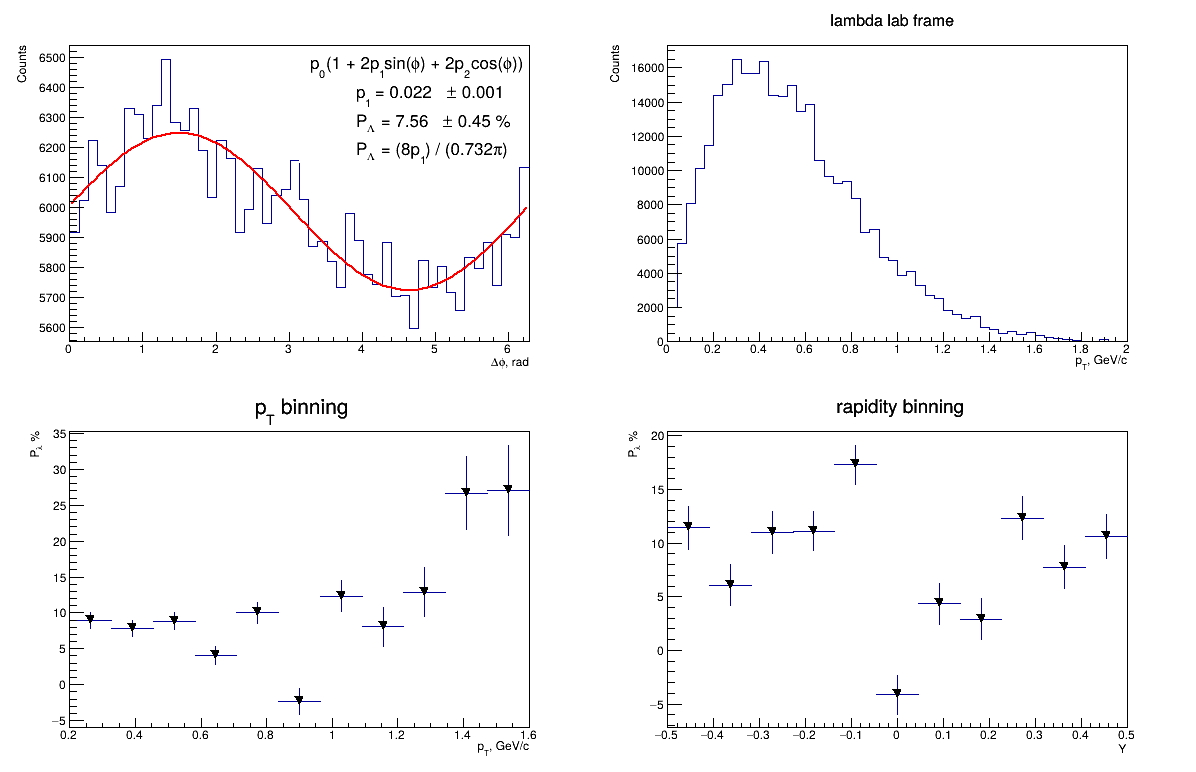
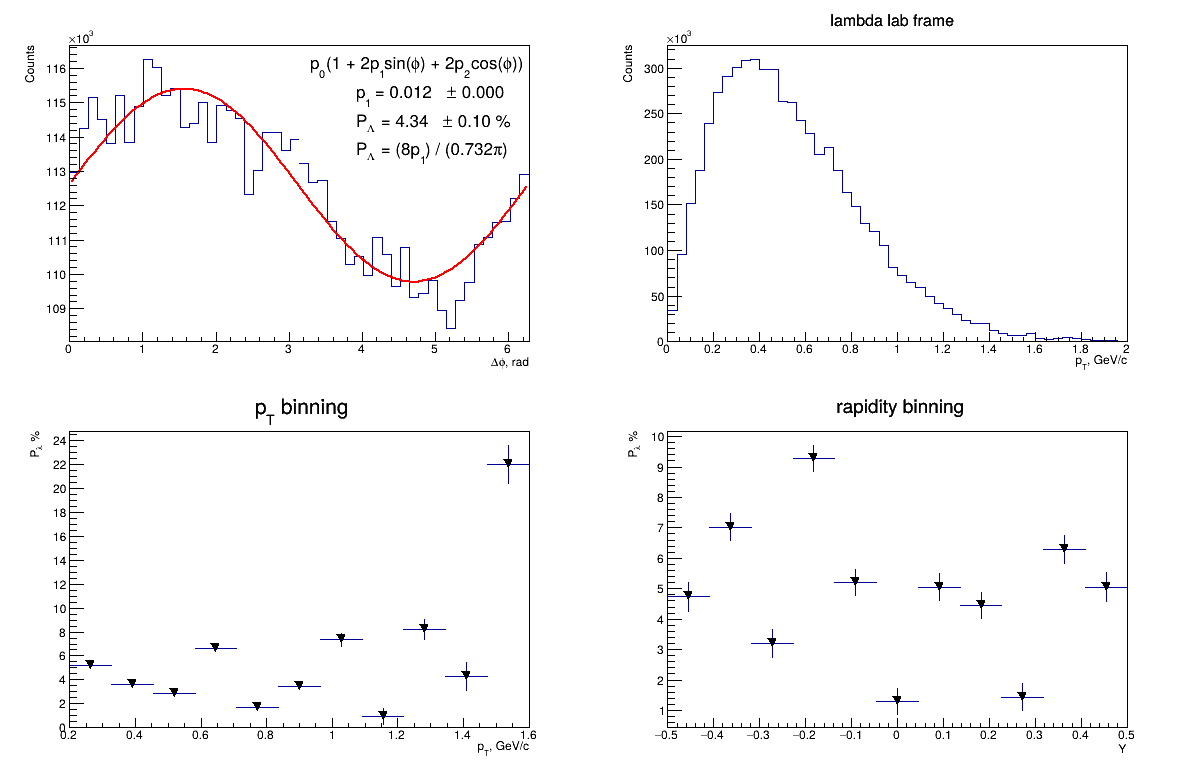
bug with  vector clearing has been fixed

diff --git a/read_unigen_root_fix.cpp b/read_unigen_root_fix.cpp
@@ -48,8 +48,6 @@ class TString;
 class TClonesArray;
 class UParticle;
 
-void calc_pol_vs_Nenh(TString InFileName, TString OutFileName, std::vector<Int_t> &enhancedFlag);
-
 
 void simulate_lambda_decays(TString inputFile, TString outputFile, TString confInFile, Int_t enhanceStat) {
 
@@ -109,7 +107,19 @@ void simulate_lambda_decays(TString inputFile, TString outputFile, TString confI
         outTree->Branch("event", &outEvent);
         outTree->Branch("cos_theta_p", &cos_theta_p);
         outTree->Branch("eventID", &eventID, "eventID/I");
-        outTree->Branch("ULambda", &ULambda);
+        if (!ULambda) {
+        ULambda   = new std::vector<UParticle>();
+    }
+    if (!UProton) {
+        UProton   = new std::vector<UParticle>();
+    }
+    if (!UPion) {
+        UPion     = new std::vector<UParticle>();
+    }
+    if (!vecPolarization) {
+        vecPolarization = new std::vector<TVector3>();
+    }
+    outTree->Branch("ULambda", &ULambda);
         outTree->Branch("UProton", &UProton);
         outTree->Branch("UPion", &UPion);
         outTree->Branch("Polarization", &vecPolarization);
@@ -155,7 +165,7 @@ void simulate_lambda_decays(TString inputFile, TString outputFile, TString confI
     UParticle pion(1, 1, 1, 1, 1, 1, 1, dummy, 1., 1., 1., 1., 1., 1., 1., 1., 1.);
 
     // Physics parameters
-    TRandom3* rand = new TRandom3(0);  
+    TRandom3 rand(0);  
     const double mLambda = 1.115683;
     const double mProton = 0.938272;
     const double mPion = 0.139570;
@@ -177,7 +187,11 @@ void simulate_lambda_decays(TString inputFile, TString outputFile, TString confI
         //std::cout<<"TEST_13"<<std::endl;
 
         inChain->GetEntry(iEvent);
-        outEvent->Clear(); // Clear previous event
+        outEvent->Clear();
+        if (vecPolarization) vecPolarization->clear();
+        if (ULambda) ULambda->clear();
+        if (UProton) UProton->clear();
+        if (UPion) UPion->clear(); // Clear previous event
         Int_t lambdaCounter = 0;
 
         // Copy event header information
@@ -187,11 +201,6 @@ void simulate_lambda_decays(TString inputFile, TString outputFile, TString confI
         outEvent->SetNes(inEvent->GetNes());
         outEvent->SetStepNr(inEvent->GetStepNr());
         outEvent->SetStepT(inEvent->GetStepT());
-
-        vecPolarization->clear();
-        ULambda->clear();
-        UProton->clear();
-        UPion->clear();
         //std::cout<<"TEST_14"<<std::endl;
         //first we COUNT lambdas
         for (Int_t i = 0; i < inEvent->GetNpa(); i++) {
@@ -206,7 +215,6 @@ void simulate_lambda_decays(TString inputFile, TString outputFile, TString confI
 
             UParticle* part = inEvent->GetParticle(i);
             if(i == inEvent->GetNpa()-1 && lambdaCounter == 0){
-                //std::cout << "do u work?" << std::endl;
                 //std::cout << "do u work?" << std::endl;
                 // Double_t pt  = gRandom->Uniform(0.5, 3.0);
                 // Double_t phi = gRandom->Uniform(0, 2*TMath::Pi());
@@ -225,7 +233,6 @@ void simulate_lambda_decays(TString inputFile, TString outputFile, TString confI
                 // );
                 TLorentzVector newLambdaPos( 1., 1., 1., 1.);
                 TLorentzVector newLambdaMom( 1., 1., 1., 1. );
-
                 UParticle* newpart = new UParticle(i, 3122, 1, 1, 1, -15, -1,
                                     child_null, newLambdaMom, newLambdaPos, 0 );
                 lambdaCounter++;
@@ -239,6 +246,11 @@ void simulate_lambda_decays(TString inputFile, TString outputFile, TString confI
             }// Select Lambdas (PDG code 3122)
             else lambdaCounter++;
 
+            //!!!clear vectors here, bc if placed in the head of function, the vector is cleared on any non-Lambda!
+            vecPolarization->clear();
+            ULambda->clear();
+            UProton->clear();
+            UPion->clear();
             
             lambda = *part;
             set_lambda_parameterization(Lambda_yield, inEvent->GetB(), lambda); 
@@ -258,7 +270,7 @@ void simulate_lambda_decays(TString inputFile, TString outputFile, TString confI
                                 (mLambda*mLambda - (mProton - mPion)*(mProton - mPion))) /
                                 (2*mLambda);
             
-            double phi = rand->Uniform(0, 2*TMath::Pi());
+            double phi = rand.Uniform(0, 2*TMath::Pi());
             TVector3 pol = get_pol_lambda(lambda, fPolY/100., fSigmaPolVal);
             vecPolarization->push_back(pol);
 
@@ -323,12 +335,12 @@ void simulate_lambda_decays(TString inputFile, TString outputFile, TString confI
             while(fEnhanceStat > 1){ //enhancing of lambdas
                 enhancedFlag = -9;
 
-                TLorentzVector mom_rand(
-                    get_random_value(lambda.Px(), 0.03),
-                    get_random_value(lambda.Py(), 0.03),
-                    get_random_value(lambda.Pz(), 0.03),
-                    get_random_value(lambda.E(), 0.03)
-                );
+                // TLorentzVector mom_rand(
+                //     get_random_value(lambda.Px(), 0.03),
+                //     get_random_value(lambda.Py(), 0.03),
+                //     get_random_value(lambda.Pz(), 0.03),
+                //     get_random_value(lambda.E(), 0.03)
+                // );
                 
                 TLorentzVector pos_rand(
                     get_random_value(lambda.X(), 0.03),
@@ -352,7 +364,7 @@ void simulate_lambda_decays(TString inputFile, TString outputFile, TString confI
                                     (mLambda*mLambda - (mProton - mPion)*(mProton - mPion))) /
                                     (2*mLambda);
 
-                double phi = rand->Uniform(0, 2*TMath::Pi());
+                double phi = rand.Uniform(0, 2*TMath::Pi());
 
                 TVector3 pol = get_pol_lambda(enhancedLambda, fPolY/100., fSigmaPolVal);
                 vecPolarization->push_back(pol);
@@ -438,7 +450,7 @@ void simulate_lambda_decays(TString inputFile, TString outputFile, TString confI
     // Cleanup
     delete c1;
     delete outEvent;
-    delete rand;
+    // delete rand;
     delete inChain;
 
     outFile->Close();
@@ -734,90 +746,6 @@ void calc_global_polarization(TString InFileName, TString OutFileName, Int_t enh
 
 }
 
-void calc_pol_vs_Nenh(TString InFileName, TString OutFileName, std::vector<Int_t> &enhancedFlag){
-
-    // TFile *inFile = TFile::Open(InFileName);
-
-    TChain *inChain = new TChain("decays");
-    //inChain->Add(InFileName);
-    TString pathIn = "/scratch3/dflusova/afterburner/out/"; //directory with input files
-    TString fileIn = "result_urqmd_xexe_2.87gev_mf_6195240"; //file for storing produced protons 
-    for (int i = 1; i < 2000; i++){
-        TString fname = TString::Format("%s%s_%i.mcini.root",pathIn.Data(), fileIn.Data(), i);
-        TFile* f = TFile::Open(fname, "READ");
-        // TTree* t = (TTree*) f->Get("decays");
-        if (!f || f->IsZombie()){
-            std::cout << "ne\n";
-        }
-        else{
-            inChain->Add(fname);
-            f->Close();
-        }    
-    }
-
-    std::vector<UParticle> *ULambda = nullptr;
-    std::vector<UParticle> *UProton = nullptr; 
-    std::vector<UParticle> *UPion = nullptr; 
-    std::vector<TVector3> *vecPolarization = nullptr;
-
-    UEvent *inEvent = new UEvent ();
-
-    inChain->SetBranchAddress("event", &inEvent);
-
-    inChain->SetBranchAddress("Polarization", &vecPolarization);
-    inChain->SetBranchAddress("UProton", &UProton);
-    inChain->SetBranchAddress("ULambda", &ULambda);
-    inChain->SetBranchAddress("UPion", &UPion);
-
-    Long64_t nEvents = inChain->GetEntries();
-
-    std::cout << "entries size: " << nEvents << std::endl;
-    Int_t nBinsEnh = *(enhancedFlag.end() - 1) - enhancedFlag.at(0);
-    TH2D* hPx_Nenh   = new TH2D("hPx_Nenh","hPx_Nenh", nBinsEnh, enhancedFlag.at(0), *(enhancedFlag.end() - 1), 50, -1., 1.);
-    TH2D* hPy_Nenh   = new TH2D("hPy_Nenh","hPy_Nenh", nBinsEnh, enhancedFlag.at(0), *(enhancedFlag.end() - 1), 50, -1., 1.);
-    TH2D* hPmag_Nenh = new TH2D("hPmag_Nenh","hPmag_Nenh", nBinsEnh, enhancedFlag.at(0), *(enhancedFlag.end() - 1), 50, -1., 1.);
-
-    TH2D* hPx_Nlamb   = new TH2D("hPx_Nlamb","hPx_Nlamb", nBinsEnh, enhancedFlag.at(0), *(enhancedFlag.end() - 1), 50, -1., 1.);
-    TH2D* hPy_Nlamb   = new TH2D("hPy_Nlambd","hPy_Nlambd", nBinsEnh, enhancedFlag.at(0), *(enhancedFlag.end() - 1), 50, -1., 1.);
-    TH2D* hPmag_lamb = new TH2D("hPmag_lambd","hPmag_lambd", nBinsEnh, enhancedFlag.at(0), *(enhancedFlag.end() - 1), 50, -1., 1.);
-
-
-    for(size_t iEnh = 0; iEnh < enhancedFlag.size(); iEnh++){
-        Int_t enhFlag = enhancedFlag[iEnh];
-        std::cout << "eng flag: " << enhFlag << std::endl;
-
-        for(Long64_t iEvent = 0; iEvent < nEvents; iEvent++){
-            // inTree->GetEntry(iEvent);
-            inChain->GetEntry(iEvent);
-            int lambdas = 0;
-            for (size_t pols_i = 0; pols_i < vecPolarization->size(); pols_i++){
-                hPx_Nlamb->Fill(enhFlag, vecPolarization->at(pols_i).X());
-                hPy_Nlamb->Fill(enhFlag, vecPolarization->at(pols_i).Y());
-                hPmag_lamb->Fill(enhFlag, TMath::Sqrt(vecPolarization->at(pols_i).X()*vecPolarization->at(pols_i).X()+vecPolarization->at(pols_i).Y()*vecPolarization->at(pols_i).Y()));
-                if (ULambda->at(pols_i).GetMate() == -9){
-                    lambdas++;
-                    hPx_Nenh->Fill(enhFlag, vecPolarization->at(pols_i).X());
-                    hPy_Nenh->Fill(enhFlag, vecPolarization->at(pols_i).Y());
-                    hPmag_Nenh->Fill(enhFlag, TMath::Sqrt(vecPolarization->at(pols_i).X()*vecPolarization->at(pols_i).X()+vecPolarization->at(pols_i).Y()*vecPolarization->at(pols_i).Y()));
-                    if (lambdas > enhFlag) break;
-                }
-            }
-        }
-    }
-
-
-    TFile *outFile = TFile::Open(OutFileName, "RECREATE");//Resulting out file
-    hPx_Nenh->Write();
-    hPy_Nenh->Write();
-    hPmag_Nenh->Write();
-
-    hPx_Nlamb->Write();
-    hPy_Nlamb->Write();
-    hPmag_lamb->Write();
-
-    outFile->Close();
-}
-
 
 Double_t get_positive_phi(const Double_t& phi){
     Double_t phi_rot = phi;
@@ -851,9 +779,9 @@ Double_t get_costh(Double_t alpha, Double_t pol) {
 
 Double_t get_random_value(Double_t fMean, Double_t fSigma)
 {
-    TRandom3* rand = new TRandom3(0);  // Seed with 0 for reproducibility
-    Double_t randomVal = rand->Gaus(fMean, fSigma);
-    delete rand;
+    TRandom3 rand(0);  // Seed with 0 for reproducibility
+    Double_t randomVal = rand.Gaus(fMean, fSigma);
+    // delete rand;
     return randomVal;
 }
 

diff --git a/lambdaPolCalc.cpp b/lambdaPolCalc.cpp
@@ -35,26 +35,11 @@ void lambdaPolCalc() {
 
     TString fileOutName = "result_global_polarization_urqmd_xexe_2.87gev_mf_6195240"; //resulting .root file, it contains deltaPhi distributions
     TString fileOutFormat = ".mcini.root"; //resulting .root file, it contains deltaPhi distributions
-    // std::vector<Int_t> vecEnhancedValue = {0, 1, 2, 5, 10, 50};
-    std::vector<Int_t> vecEnhancedValue = {0, 50};
-    // TFile* file;
-    // for (auto iMult : vecEnhancedValue) calc_global_polarization(TString::Format("%s%s",pathIn.Data(), fileIn.Data()),  TString::Format("%s%s_%i_%s",pathOut.Data(), fileOutName.Data(), iMult, fileOutFormat.Data()), iMult);
-    // for (int i = 1; i < 2000; i++){
-    //     file = TFile::Open(TString::Format("%s%s_%i.mcini.root",pathIn.Data(), fileIn.Data(), i), "READ");
-    //     if (file && !file->IsZombie()) {
-    //     // if (!(TFile::Open(TString::Format("%s%s_%i.mcini.root",pathIn.Data(), fileIn.Data(), i), "READ")->IsZombie())){
-    //     // if (gSystem->AccessPathName(TString::Format("%s%s_%i.mcini.root",pathIn.Data(), fileIn.Data(), i))){
-    //         for (auto iMult : vecEnhancedValue) calc_global_polarization(TString::Format("%s%s_%i.mcini.root",pathIn.Data(), fileIn.Data(), i),  TString::Format("%s%s_iMult%i%s",pathOut.Data(), fileOutName.Data(), iMult, fileOutFormat.Data()), iMult);
-    //     // }
-    //     }
-    //     else {
-    //         // Handle the case when file couldn't be opened
-    //         std::cerr << "Error: Could not open file " 
-    //                   << TString::Format("%s%s_%i.mcini.root", pathIn.Data(), fileIn.Data(), i)
-    //                   << std::endl;
-    //     }
-    // }   
+    std::vector<Int_t> vecEnhancedValue = {0, 1, 2, 5, 10, 15, 20, 25, 30, 35, 40, 45, 49, 50};
     calc_global_polarization(TString::Format("%s%s_%i.mcini.root",pathIn.Data(), fileIn.Data(), 1),  TString::Format("%s%s%s",pathOut.Data(), fileOutName.Data(), fileOutFormat.Data()), 50);
+
+    //UNCOMMENT if u wanna test pX,pY,pMag (vecEnhancedValue)
+    // calc_pol_vs_Nenh(TString::Format("%s%s_%i.mcini.root",pathIn.Data(), fileIn.Data(), 1),  "test.root", vecEnhancedValue);
     std::cout << "ROOT file saved and closed." << std::endl;
     std::cout << "Analysis complete! Results saved to lambda_polarization_results.root" << std::endl;
 
